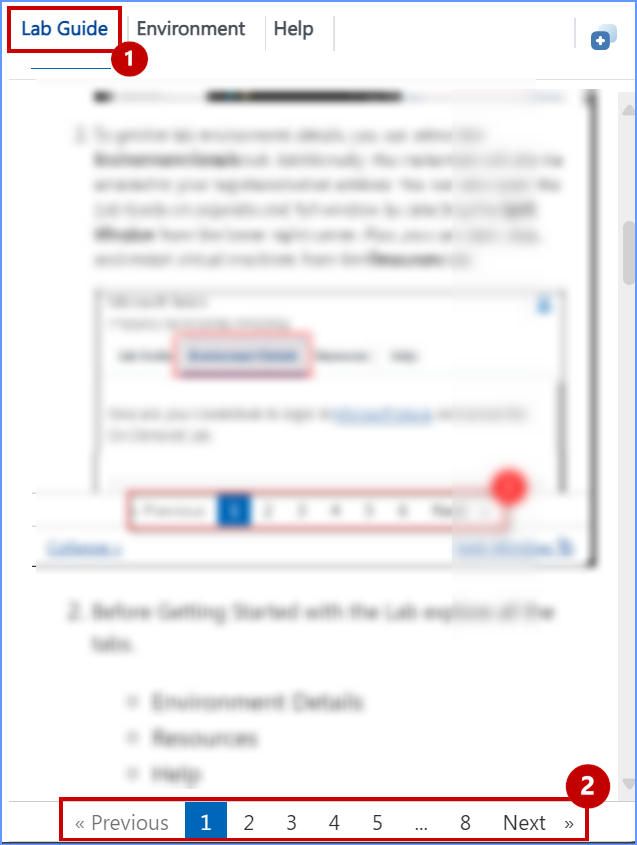
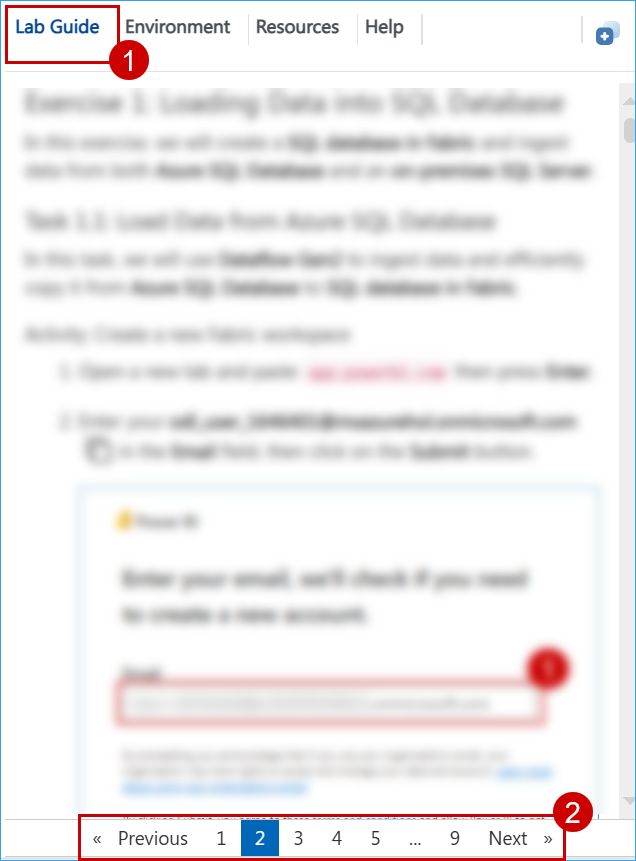
update

Changed region(s): [[0.0, 0.0, 1.0, 1.0]]

diff --git a/Workshop_Exercises/gettingstarted.md b/Workshop_Exercises/gettingstarted.md
@@ -14,6 +14,7 @@
 
     - **Lab Guide**
     - **Environment**
+    - **Resources**
     - **Help**
 
      ![](../media/Task4.png)
@@ -62,7 +63,7 @@
      ![](../media/1.png)
 
 
-    >**Note:** To ensure the **deployment is successful!** Verify that the **Resource Group** contains **10 resources**.
+7. Ensure the **deployment is successful!** Verify that the **Resource Group** contains **10 resources**.
 
     ![](../media/2.png)
 
